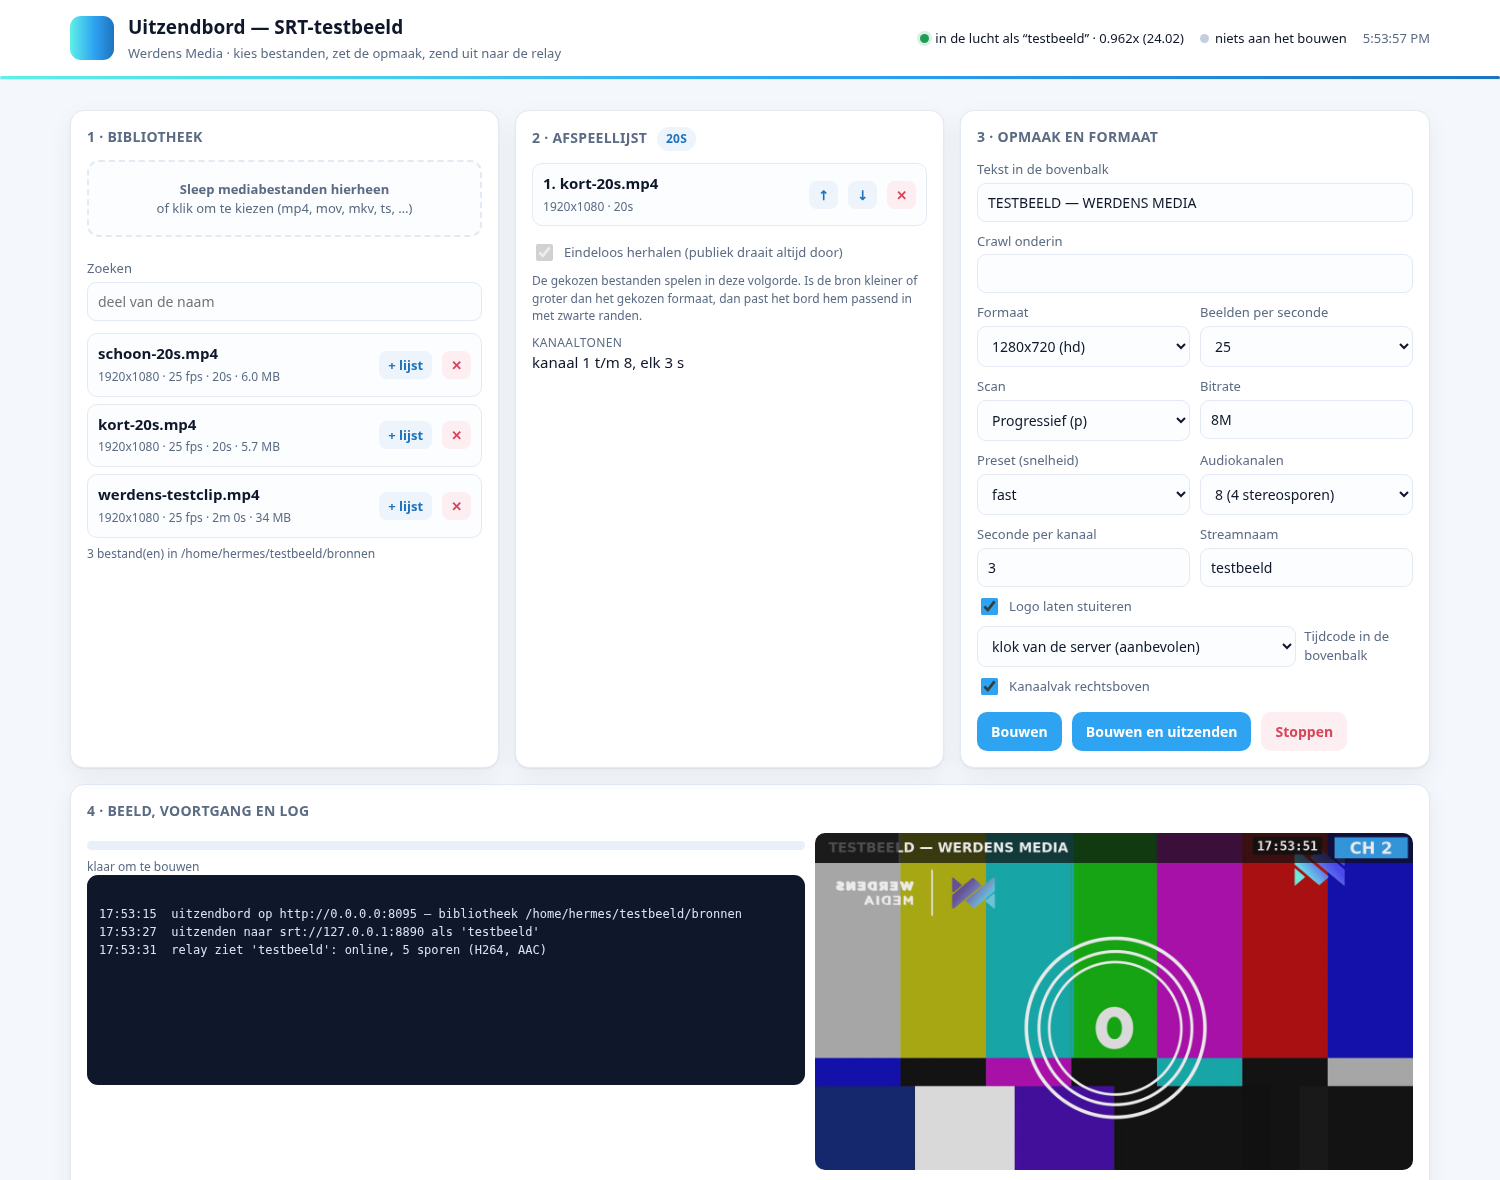
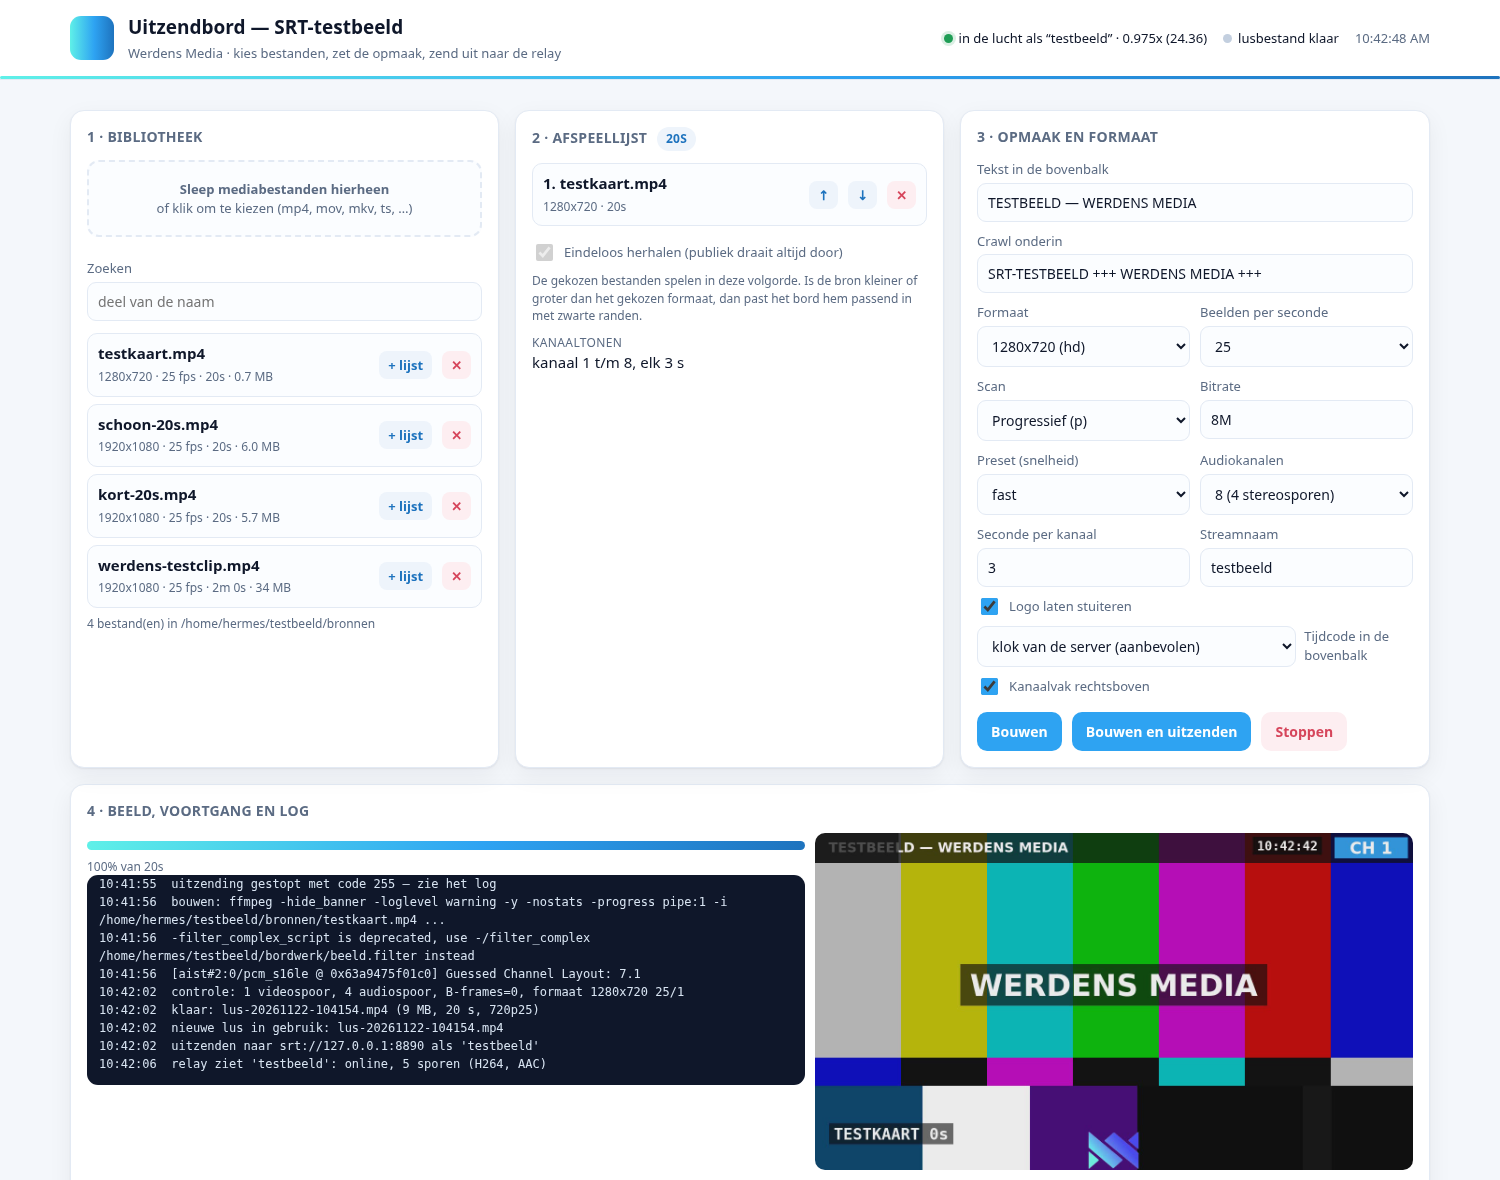
Interlaced beeld: 25 kiezen gaf 12,5 beelden per seconde en dubbel interlacen
Een uitzending in 50i zag er versmeerd uit: de onderste helft van het beeld
leek uitgerekt en er liep een streep halverwege. Twee oorzaken:

- Interlaced werkt in velden, dus met 25 als snelheid kwam de frameteller op
  12,5 beelden per seconde uit (elk frame twee velden). Interlaced houdt nu
  altijd 50 velden aan: 25 frames per seconde met twee velden = echte 50i.
- Bij het tekenen van de klok werd de lus, die al interlaced was, nog een keer
  door de veldvlechter gehaald. Er wordt nu eerst ontdubbeld (yadif) en pas
  daarna gevlochten.

De momentopname en de beeldstroom voor de telefoon ontdubbelen nu ook
(yadif=deint=interlaced), zodat een interlaced uitzending daar geen strepen
meer toont.

diff --git a/dashboard/streams.py b/dashboard/streams.py
@@ -72,6 +72,7 @@ def peil(pad: str) -> dict:
     return {
         "bestand": os.path.basename(pad),
         "pad": pad,
+        "veldorde": beeld.get("field_order") or "progressive",
         "duur": round(duur, 3),
         "breedte": int(beeld.get("width") or 0),
         "hoogte": int(beeld.get("height") or 0),
@@ -126,6 +127,11 @@ def bouw_filter(bronnen: list[str], opties: dict, aantal_kanalen: int,
     # 25 frames per seconde met elk twee velden — dat is pas echt 50i. Alleen de
     # vlag zetten levert 25p in een interlaced jasje op.
     veld_fps = float(opties["fps"])
+    if opties.get("interlaced") and veld_fps < 50:
+        # Interlaced werkt in velden: met 25 komt de frameteller op 12,5 beelden
+        # per seconde uit (elk frame bevat twee velden) en dat is geen 50i maar
+        # een schokkerig, versmeerd beeld. Interlaced houdt daarom 50 velden aan.
+        veld_fps = 50.0
     tussen_fps = veld_fps
     uit_fps = veld_fps / 2 if opties.get("interlaced") else veld_fps
     opties["uit_fps"] = uit_fps
@@ -148,8 +154,12 @@ def bouw_filter(bronnen: list[str], opties: dict, aantal_kanalen: int,
     vorige = "[beeld]"
 
     if opties.get("interlaced"):
+        # Eerst ontdubbelen (yadif), dan pas velden vlechten. Gaat een bron die
+        # al interlaced is rechtstreeks door de vlechter, dan wordt het dubbel
+        # interlaced en versmeert de onderste helft van het beeld.
         # setfield=tff in plaats van -top: dat laatste is vervallen in ffmpeg 7
-        stap.append(f"{vorige}tinterlace=mode=interleave_top:flags=vlpf,"
+        stap.append(f"{vorige}yadif=deint=interlaced,"
+                    "tinterlace=mode=interleave_top:flags=vlpf,"
                     "setfield=tff[beeldi]")
         vorige = "[beeldi]"
 
@@ -347,13 +357,23 @@ def bouw_uitzend_opdracht(looppad: str, host: str, poort: int, naam: str,
         breedte = int(opties.get("breedte") or 1920)
         hoogte = int(opties.get("hoogte") or 1080)
         veld_fps = float(opties.get("fps") or 25)
+        if opties.get("interlaced") and veld_fps < 50:
+            veld_fps = 50.0                 # zie bouw_filter: 25 zou 12,5 worden
         uit_fps = veld_fps / 2 if opties.get("interlaced") else veld_fps
         # keyframe elke twee seconden: zonder deze grens kiest x264 250 beelden
         # (tien seconden) en dan wacht een late kijker tien seconden op beeld en
         # worden de HLS-segmenten tien seconden lang
         gop = max(1, int(round(uit_fps * 2)))
+        filter_beeld = klok_filter(breedte, hoogte)
+        if opties.get("interlaced"):
+            # Ontdubbelen, de klok tekenen en dan pas weer velden vlechten: de
+            # lus is immers al interlaced en mag niet nóg een keer door de
+            # vlechter (dat gaf de versmering halverwege het beeld).
+            filter_beeld = ("yadif=deint=interlaced," + filter_beeld
+                            + ",tinterlace=mode=interleave_top:flags=vlpf,"
+                              "setfield=tff")
         opdracht += [
-            "-vf", klok_filter(breedte, hoogte),
+            "-vf", filter_beeld,
             "-c:v", "libx264", "-preset", str(opties.get("preset") or "veryfast"),
             "-b:v", str(opties.get("bitrate") or "6M"),
             "-profile:v", "high", "-bf", "0",

diff --git a/hub/hub.py b/hub/hub.py
@@ -299,7 +299,11 @@ class Stroom:
                 continue                     # intussen opgeruimd: volgende proberen
             klaar = subprocess.run(
                 ["ffmpeg", "-hide_banner", "-loglevel", "error", "-y",
-                 "-i", nieuwste, "-frames:v", "1", "-vf", "scale=640:-2",
+                 # yadif=deint=interlaced ontdubbelt alleen wat interlaced is:
+                 # een telefoon laat een interlaced frame anders zien als een
+                 # beeld met strepen halverwege.
+                 "-i", nieuwste, "-frames:v", "1",
+                 "-vf", "yadif=deint=interlaced,scale=640:-2",
                  "-q:v", "6", "-strict", "unofficial", "-update", "1",
                  "-t", "3", "-f", "image2", tijdelijk],
                 capture_output=True, timeout=15)
@@ -955,7 +959,8 @@ class HttpKant(BaseHTTPRequestHandler):
             nieuw = os.path.join(map_, "beeld.jpg")
             tijdelijk = nieuw + ".nieuw"
             opdracht = ["ffmpeg", "-hide_banner", "-loglevel", "error", "-y",
-                        "-i", nieuwste, "-frames:v", "1", "-q:v", "4",
+                        "-i", nieuwste, "-frames:v", "1",
+                        "-vf", "yadif=deint=interlaced", "-q:v", "4",
                         "-strict", "unofficial", "-update", "1",
                         "-f", "image2", tijdelijk]
             try:
